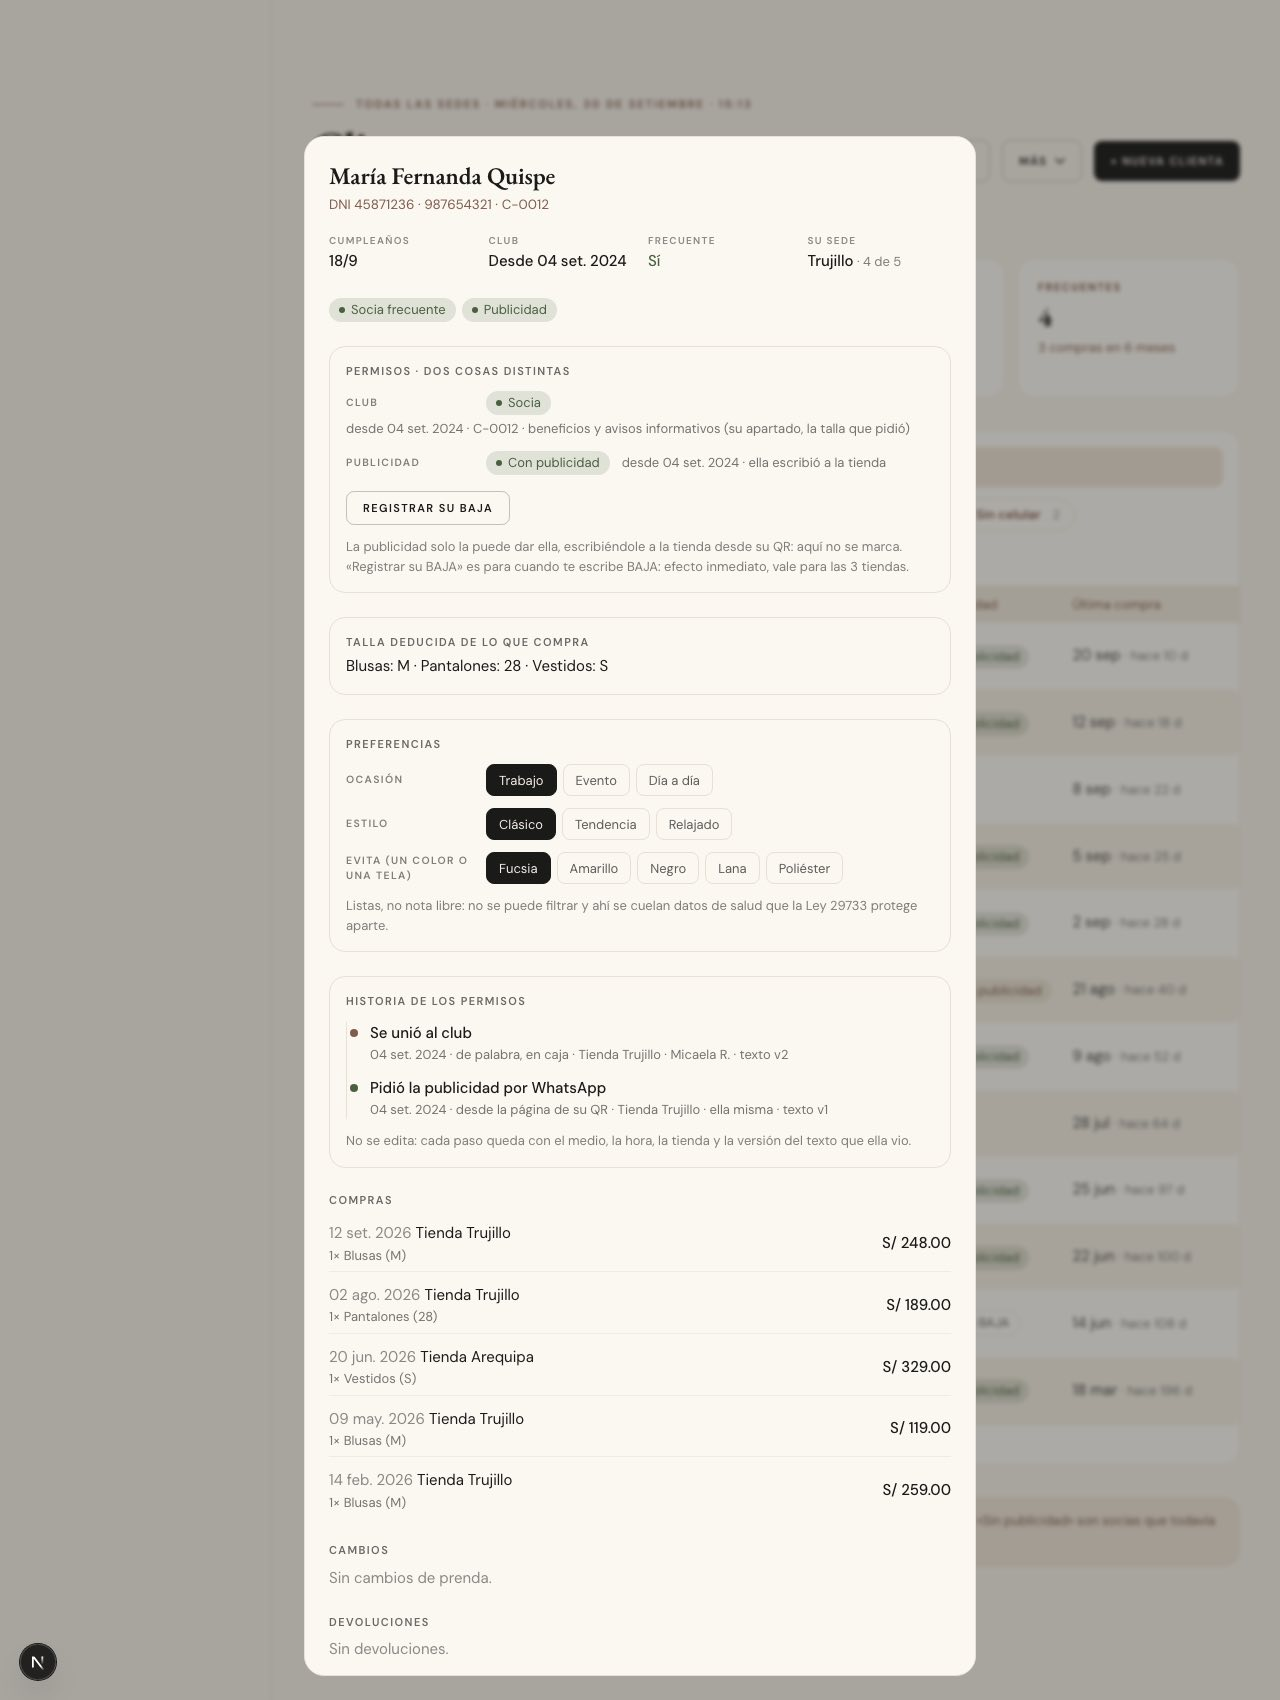
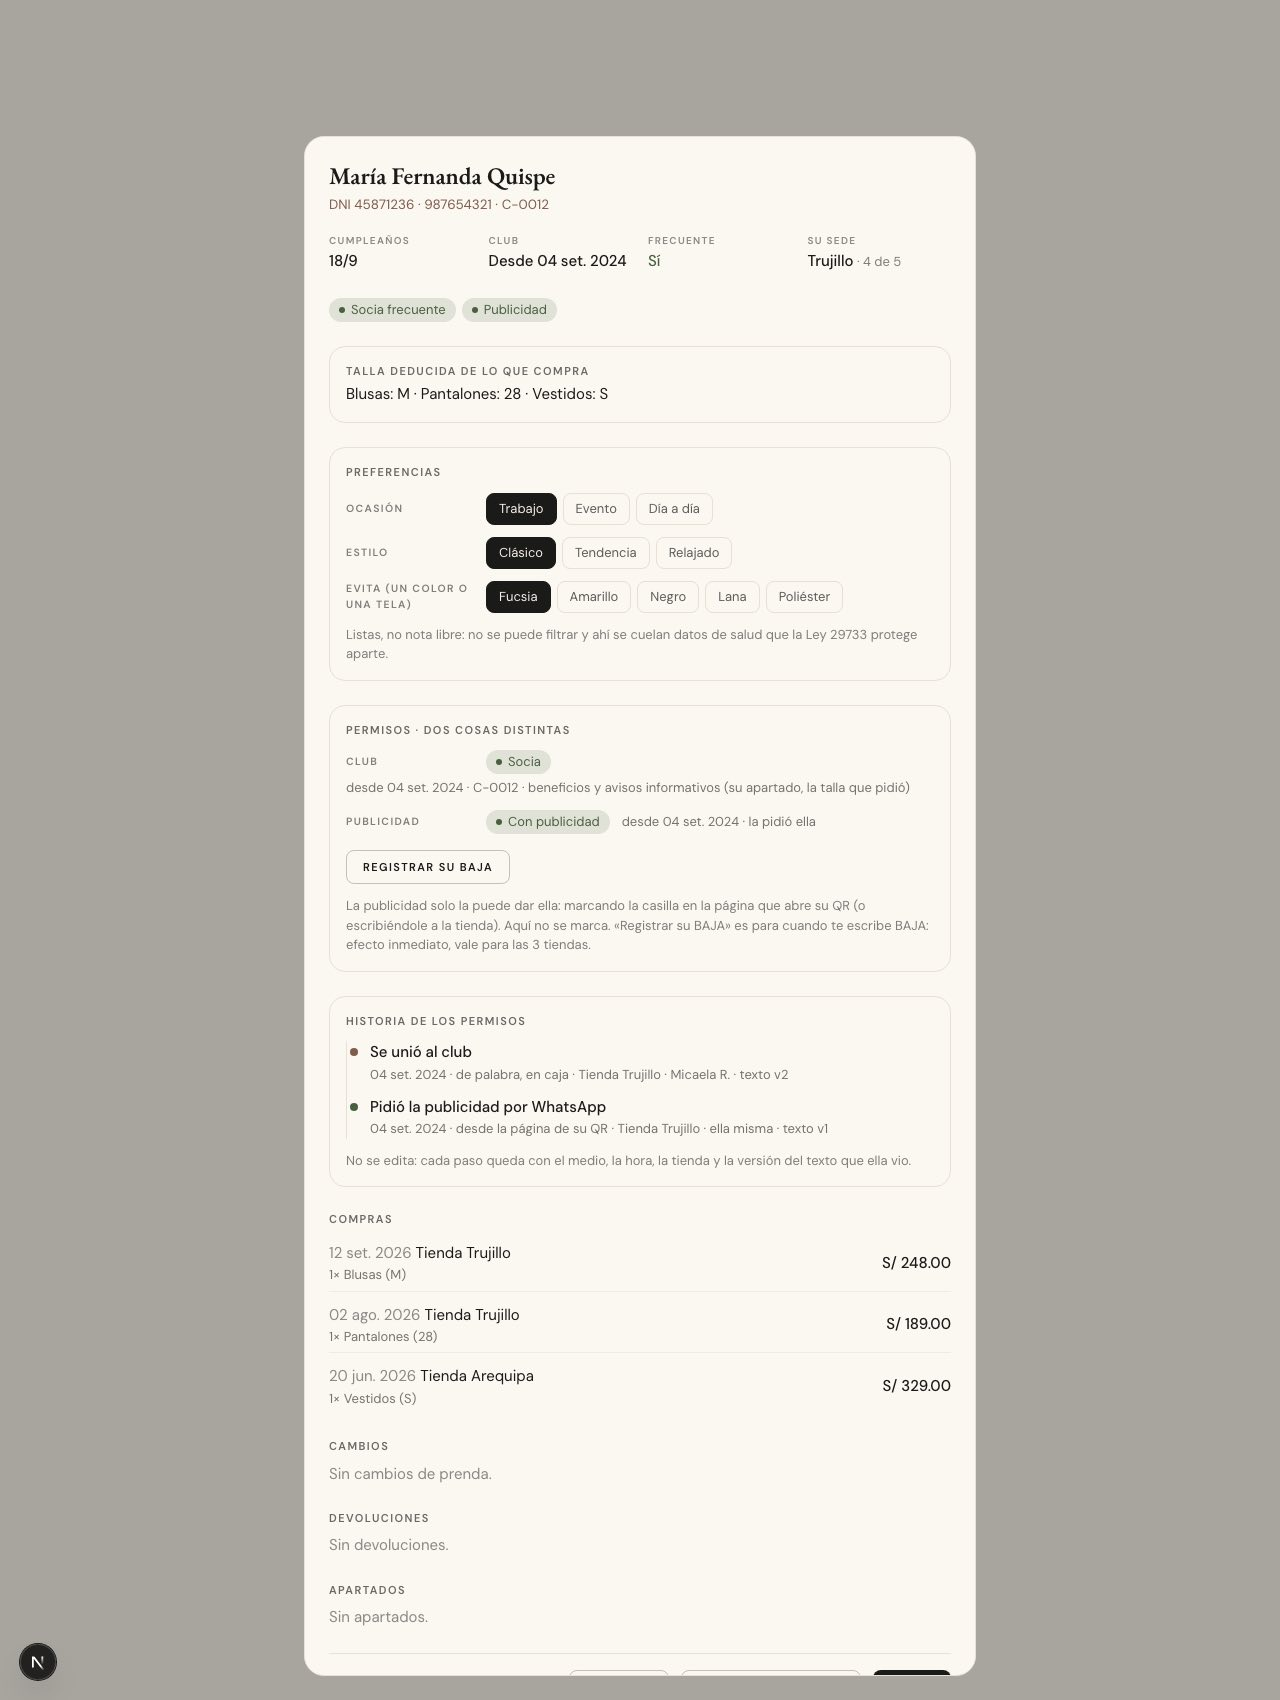
feat(clientas): la ficha en el orden del spike y «ella misma» en la historia del permiso (ADR-0288 act. f)
Ya con la tarjeta de permisos de la 1b, la ficha sigue `modalFicha` del spike (50-clientas.js l. 133-146): datos →
insignias → talla → preferencias → permisos → historia → compras. pruebas:club-lista-y-ficha suma el camino B: ella
confirma en la página de su QR (anon, medio qr_web) y la historia dice «ella misma», con la tienda de la invitación y el
texto pagina_publicidad v1 (47 casos). Bitácora, backlog y las capturas de la ficha, al día.

diff --git a/apps/web/components/ClientaFichaModal.tsx b/apps/web/components/ClientaFichaModal.tsx
@@ -494,9 +494,9 @@ export function ClientaFichaModal({
         <div className="space-y-6">
           {modo === "ver" && (
             <>
-              {/* Como el spike del club (docs/maquetas/club-clientas-spike-2026-09/, `modalFicha`): los datos, el estado en
-                  insignias y, debajo, la tarjeta del club con lo que se puede registrar. Sin la historia del permiso: la
-                  base no expone todavía una lectura de `club_permisos` (tanda 1b). */}
+              {/* En el orden del spike del club (docs/maquetas/club-clientas-spike-2026-09/, `modalFicha` de 50-clientas.js): los
+                  datos, el estado en insignias, la talla, las preferencias (tanda 1f), la tarjeta del club con lo que se puede
+                  registrar y la historia del permiso (tanda 1f, `fn_clienta_permisos`). */}
               <div className="grid grid-cols-2 gap-4 sm:grid-cols-4">
                 <Dato etiqueta="Cumpleaños" valor={cumpleLegible(c.cumpleDia, c.cumpleMes, c.cumpleAnio)} />
                 <Dato etiqueta="Club" valor={c.clubDesde ? `Desde ${fecha(c.clubDesde)}` : "No es socia"} />
@@ -522,6 +522,23 @@ export function ClientaFichaModal({
                       <Chip tono="neutro">Sin publicidad</Chip>
                     ))}
                 </div>
+              )}
+
+              {tallas.length > 0 && (
+                <div className="card-cayla p-4">
+                  <p className="label-cayla text-[11px] text-tinta/65">Talla deducida de lo que compra</p>
+                  <p className="mt-1 text-sm text-tinta">{tallas.map((t) => `${t.categoria}: ${t.talla}`).join(" · ")}</p>
+                </div>
+              )}
+
+              {enClub !== "no_socia" && !c.anonimizada && (
+                <PreferenciasClienta
+                  clientaId={c.id}
+                  version={c.version}
+                  guardadas={c.preferencias ?? {}}
+                  soloLectura={!activa}
+                  onGuardada={(version, preferencias) => setFicha((f) => (f ? { ...f, clienta: { ...f.clienta, version, preferencias } } : f))}
+                />
               )}
 
               {!c.anonimizada &&
@@ -583,22 +600,6 @@ export function ClientaFichaModal({
                   </div>
                 ))}
 
-              {tallas.length > 0 && (
-                <div className="card-cayla p-4">
-                  <p className="label-cayla text-[11px] text-tinta/65">Talla deducida de lo que compra</p>
-                  <p className="mt-1 text-sm text-tinta">{tallas.map((t) => `${t.categoria}: ${t.talla}`).join(" · ")}</p>
-                </div>
-              )}
-
-              {enClub !== "no_socia" && !c.anonimizada && (
-                <PreferenciasClienta
-                  clientaId={c.id}
-                  version={c.version}
-                  guardadas={c.preferencias ?? {}}
-                  soloLectura={!activa}
-                  onGuardada={(version, preferencias) => setFicha((f) => (f ? { ...f, clienta: { ...f.clienta, version, preferencias } } : f))}
-                />
-              )}
               <HistoriaPermisos clientaId={c.id} clave={c.version} />
 
               <SeccionActividad titulo="Compras" vacio="Todavía no tiene compras registradas.">

diff --git a/docs/backlog/2026-09-30-club-paso1f-lista-ficha.md b/docs/backlog/2026-09-30-club-paso1f-lista-ficha.md
@@ -2,9 +2,9 @@
 
 - [ ] **Pegar en producción** `20260930210000_club_paso1f_lista_y_ficha.sql` DESPUÉS de la 1b (200000 y 200100), sola en el SQL
       Editor; después fusionar la web (lee `preferencias` y llama las funciones nuevas). No está en producción.
-- [ ] **Integración con la 1b:** en `ClientaFichaModal.tsx`, llevar «Talla deducida» arriba de la tarjeta de permisos (el orden
-      del spike: talla → preferencias → permisos → historia). En `clientas_por_modulo_y_anonimizar.mjs`, la lista del vigilante
-      tiene que sumar las funciones del camino B de la 1b además de las 6 de la 1f.
+- [x] **Junta con la 1b final** (`5e170d2b`, camino B y main): la ficha en el orden del spike (talla → preferencias → permisos →
+      historia), el vigilante de `clientas_por_modulo_y_anonimizar` con las funciones de la página y las de la 1f, y «ella misma»
+      (`qr_web`) probada en la base.
 - [ ] **CL-25 en la caja:** `fn_clienta_compras` todavía cuenta las ventas devueltas enteras; filtrar con
       `retail.fn_venta_devuelta_entera(v.id)` (la 1d la reescribe hoy). Hasta entonces la caja puede decir «frecuente» donde la
       lista y la ficha no.
@@ -13,4 +13,5 @@
 - [ ] Al unir dos fichas, las preferencias de la que se va no pasan a la que queda (se vuelven a marcar). Decidir si vale la pena.
 - [ ] Refrescar el diccionario (`pnpm datos:generar:produccion`) cuando esté pegada: `club_etiquetas` y `clientas.preferencias`.
 - Cómo verificas: Clientas a 1280, 800 y 375 px (nada se corta, la cabecera en una fila); una socia: «Su sede · N de M»,
-  preferencias que se guardan y su historia del permiso; `pnpm pruebas:club-lista-y-ficha`.
+  preferencias que se guardan y su historia del permiso (con «ella misma» si confirmó en la página de su QR);
+  `pnpm pruebas:club-lista-y-ficha`.

diff --git a/docs/bitacora/2026-09-30-club-paso1f-lista-ficha.md b/docs/bitacora/2026-09-30-club-paso1f-lista-ficha.md
@@ -5,7 +5,8 @@ sede (donde más compró en 12 meses; empate, la de su compra más reciente), ú
 devuelta entera no cuenta, un cambio sí). La pantalla quedó como el spike: Exportar, «Más» y «+ Nueva clienta» en una fila
 (también a 375 px), cuatro cifras con Frecuentes, buscador que busca al escribir, píldoras con Archivadas, seis columnas con Su
 sede y Última compra, y «Pidió BAJA». La ficha suma «Su sede · N de M», las preferencias (Ocasión, Estilo, Evita) y la historia
-del permiso. Migración `20260930210000` (una parte) y `pnpm pruebas:club-lista-y-ficha` (46 casos).
+del permiso. Migración `20260930210000` (una parte) y `pnpm pruebas:club-lista-y-ficha` (47 casos). Ya junta con la 1b final (camino B):
+la ficha quedó en el orden del spike y la historia dice «ella misma» cuando confirmó en la página de su QR.
 
 Por qué así: una regla en un solo lugar (qué compra cuenta, su sede, frecuente) que leen la lista, las cifras y la ficha; el
 umbral de frecuente lo vigila una prueba contra `lib/clienta-actividad-reglas.ts`. Las preferencias son solo de una socia y un
